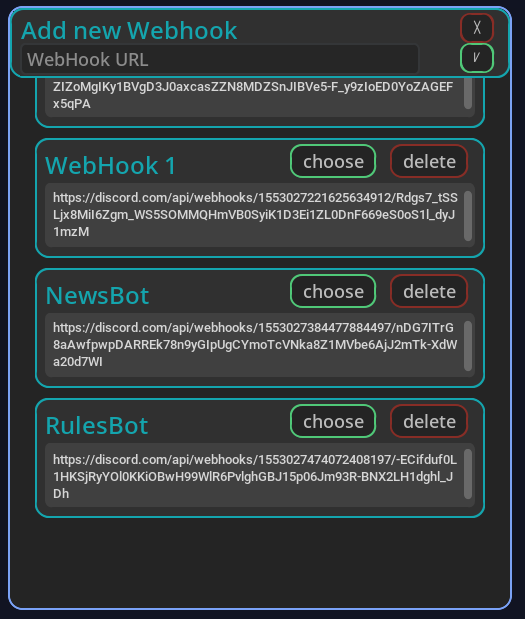
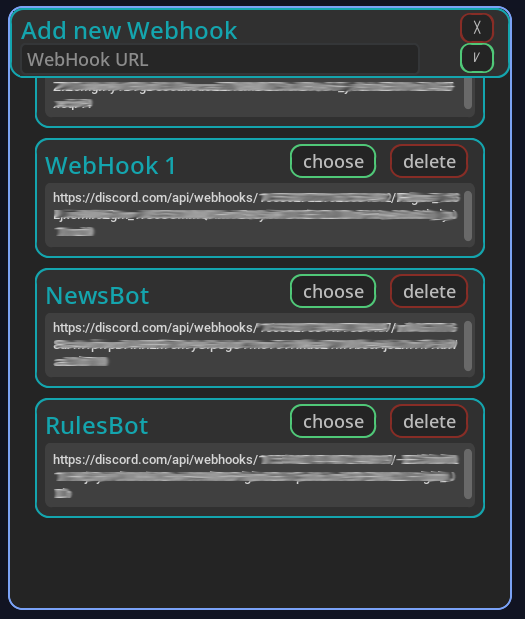
docs(readme): clean readme

diff --git a/README.md b/README.md
@@ -40,7 +40,6 @@
   <li><a href="#overview">Overview</a></li>
   <li><a href="#features">Features</a></li>
   <li><a href="#installation-and-usage">Installation and Usage</a></li>
-  <li><a href="#configuration">Configuration</a></li>
   <li><a href="#contributing">Contributing</a></li>
   <li><a href="#known-issues">Known Issues</a></li>
   <li><a href="#troubleshooting">Troubleshooting</a></li>
@@ -260,70 +259,5 @@ All ways to donate are listed in the [author's profile](https://github.com/ByteC
     <img alt="Back to top" src="https://img.shields.io/badge/Back_to_top-282a2e?style=flat-square">
   </a>
 </p>
-
----
-
-![logo](images/logo.png)
-
-### webhook-manager
-
-🌐The prog for controlling discord webhooks written on python
-
-<p>
-  <img src="https://img.shields.io/badge/Python-FFD43B?style=for-the-badge&logo=python&logoColor=blue">
-  <img src="https://img.shields.io/badge/VSCode-0078D4?style=for-the-badge&logo=visual%20studio%20code&logoColor=white">
-  <img src="https://img.shields.io/badge/Windows-0078D6?style=for-the-badge&logo=windows&logoColor=white">
-  <img src="https://img.shields.io/badge/build-passing-76B900?style=for-the-badge&logo=&logoColor=whit">
-  <img src="https://img.shields.io/badge/tests-98/100-76B900?style=for-the-badge&logo=&logoColor=whit">
-  <img src="https://img.shields.io/badge/code quality-B+-76B900?style=for-the-badge&logo=&logoColor=whit">
-  <img src="https://img.shields.io/badge/license-MIT-blue?style=for-the-badge&logo=&logoColor=whit">
-  <img src="https://img.shields.io/badge/webhook-manager-v1.0.0-blue?style=for-the-badge&logo=&logoColor=whit">
-</p>
-
----
-
-### 🖼Overview
-
-User-friendly interface in the form of a list(it can contain any number of webhooks)
-
-![1](images/Screenshot_1.png)
-
-Сonvenient addition of a webhook
-
-![2](images/Screenshot_2.png)
-
-Easily use or remove unwanted webhooks
-
-![3](images/Screenshot_3.png)
-
-fast work and sending
-
-![4](images/Screenshot_4.png)
-
----
-
-### 🔐Secure
-
-All saved webhooks are stored locally encrypted with 2 keys and 3 ways
-
-![5](images/Screenshot_5.png)
-
----
-
-### 🧱Building
-
-Install required modules `pip install -r requirements.txt`
-
-Run `pack.bat` to pack .py scripts into exe
-
----
-
-### ❌Builder errors
-
-If you have error like this:
-
-![error](images/error.png)
-
-How to solve it read [here](https://www.stechies.com/pip-not-recognized-internal-external-command/)
 
 ---
